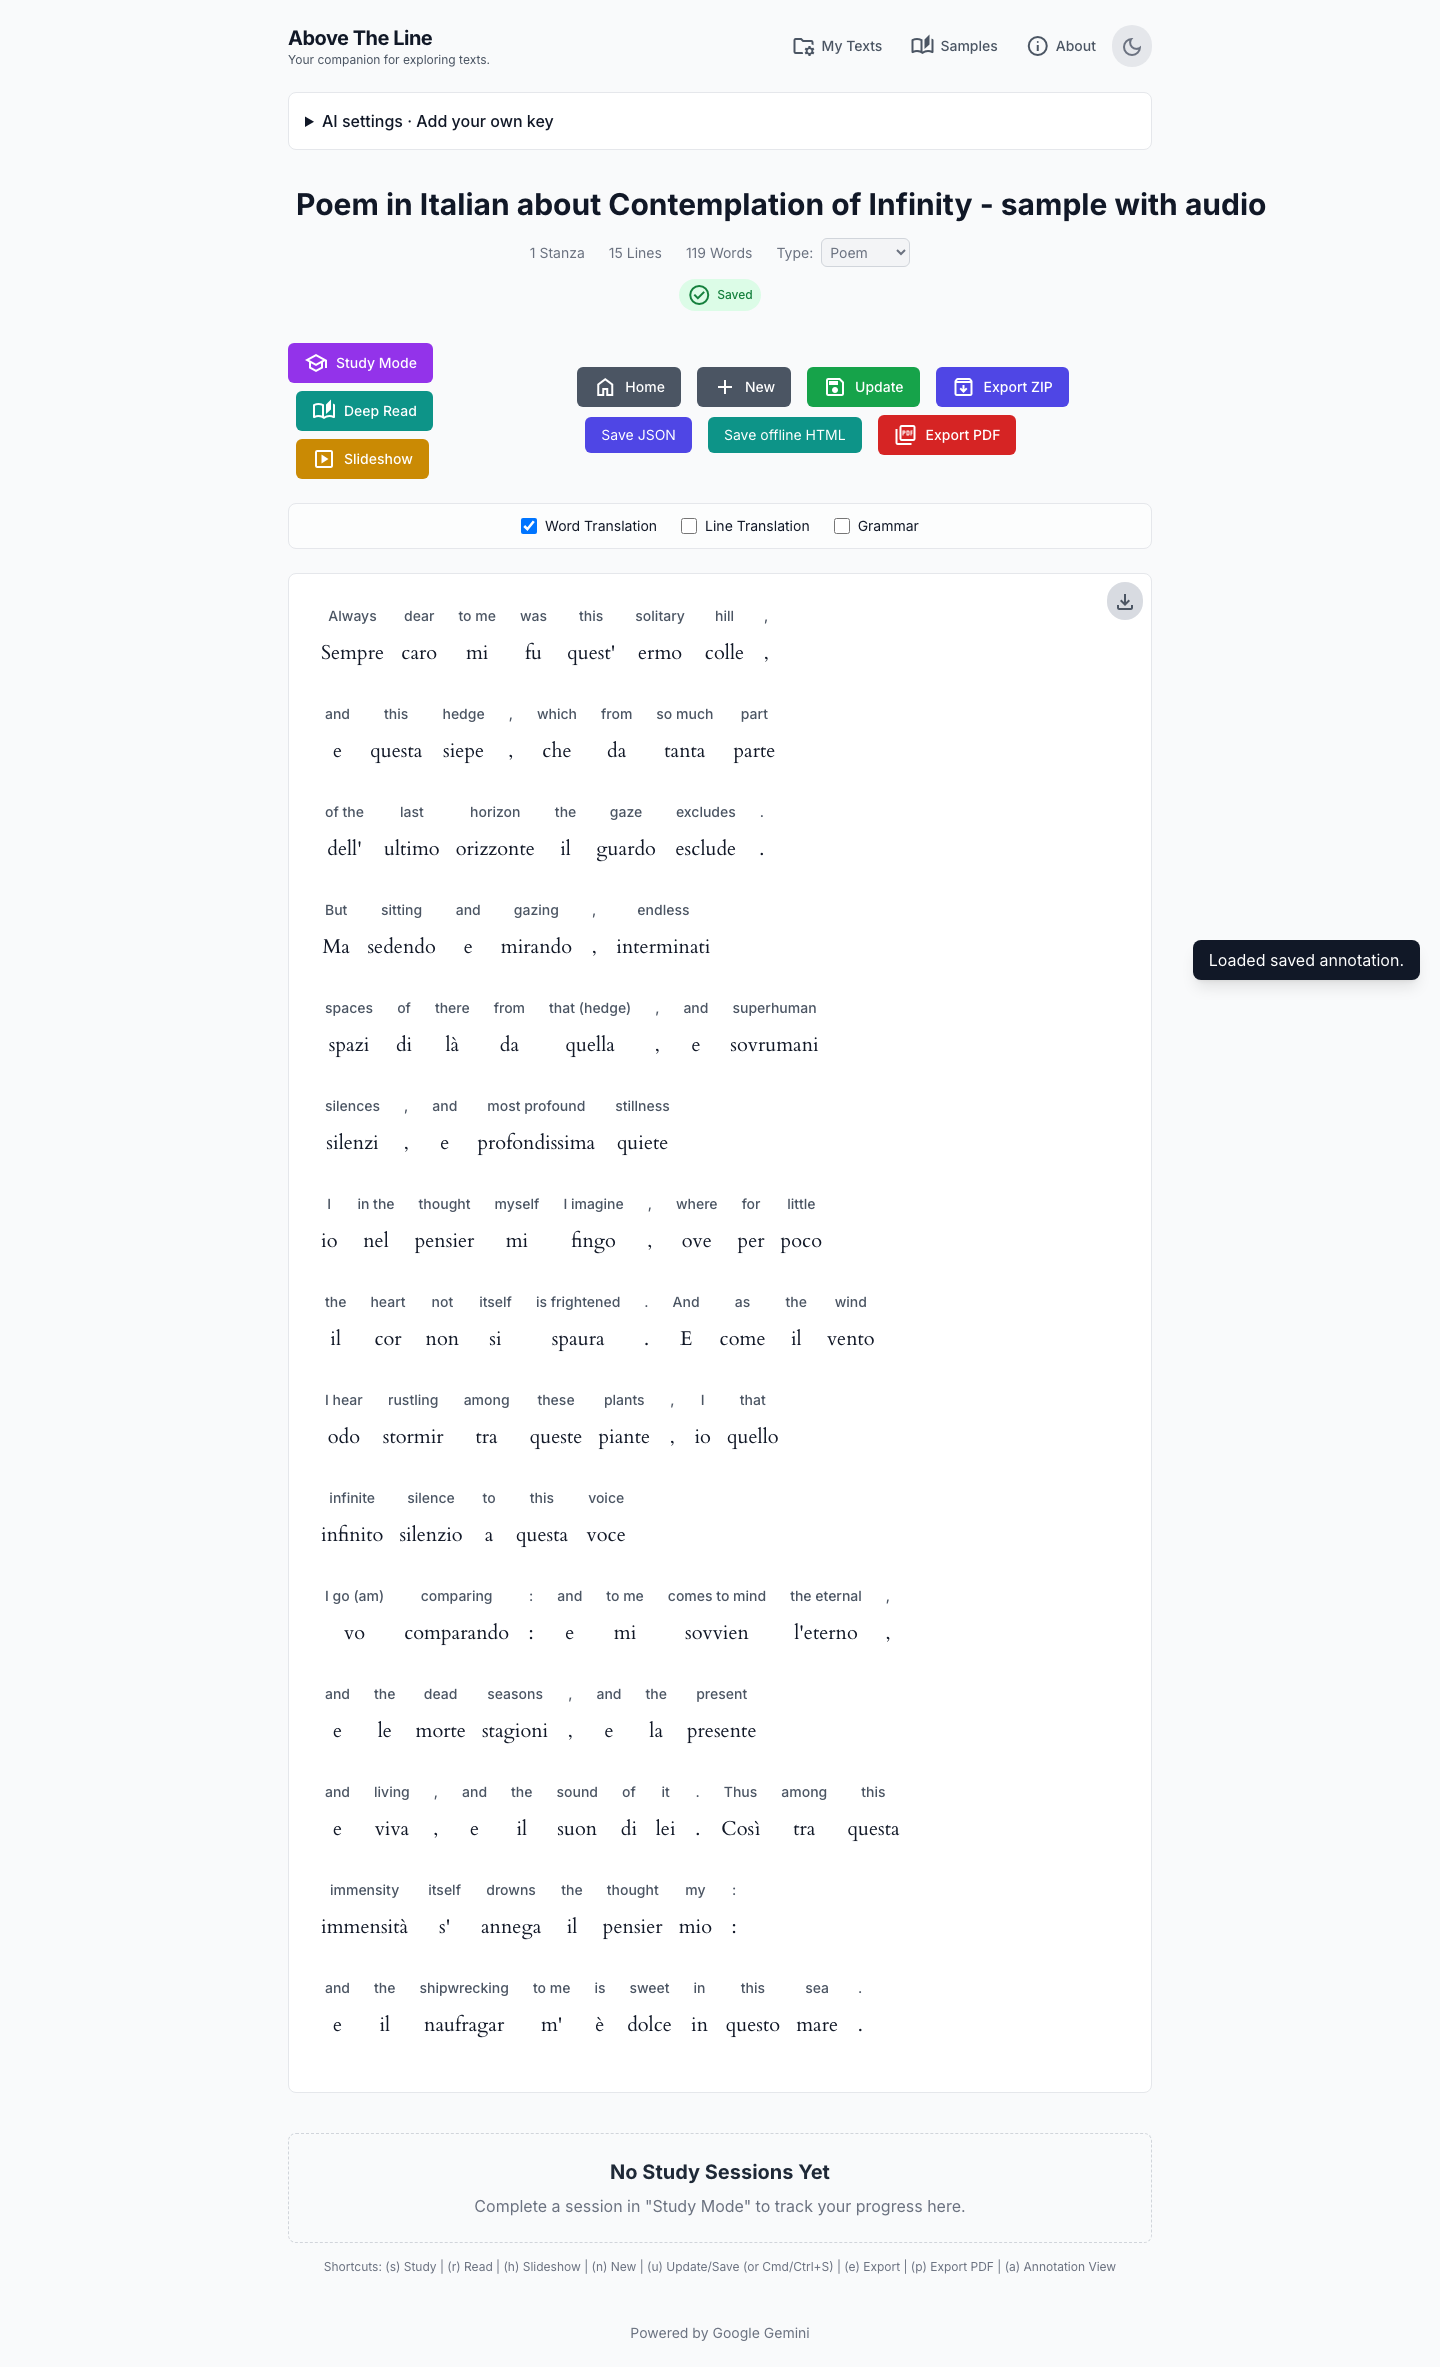
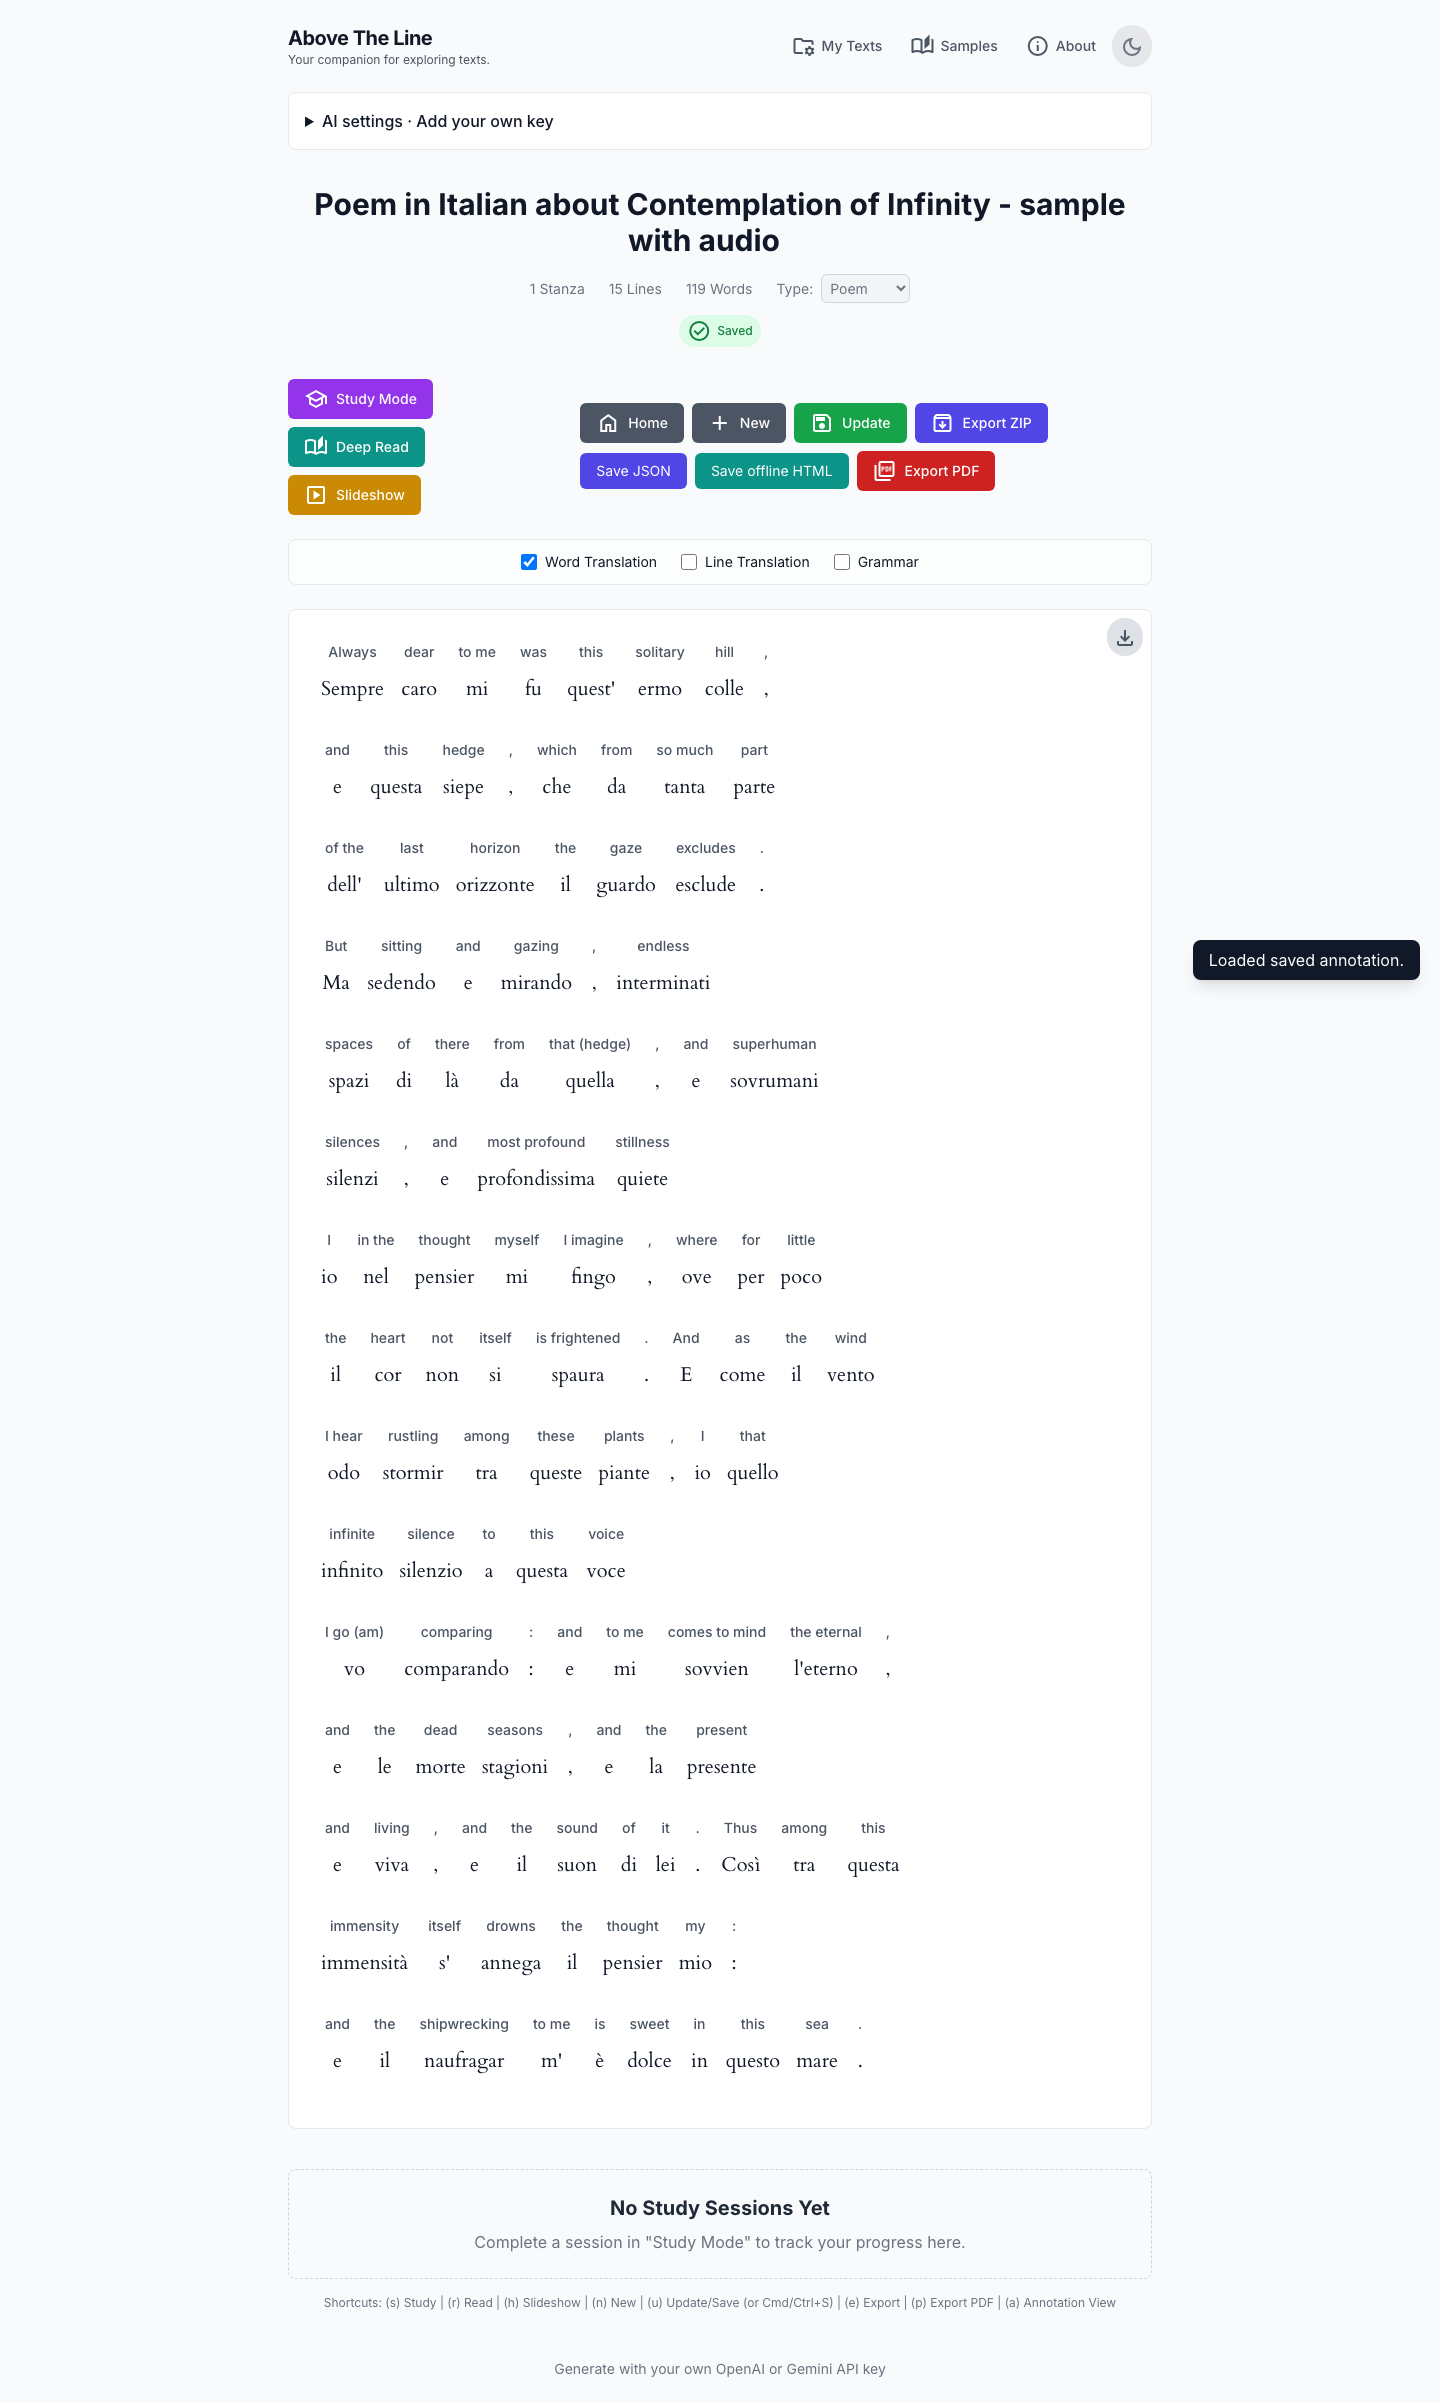
Keep Above the Line titles and controls within phone screens

diff --git a/components/AnnotationOutput.tsx b/components/AnnotationOutput.tsx
@@ -186,7 +186,7 @@ const AnnotationOutput: React.FC<AnnotationOutputProps> = ({ annotation, title, 
   return (
     <div className="mt-8">
       <div className="text-center mb-8">
-        <div className="group relative inline-flex justify-center items-center">
+        <div className="group relative inline-flex max-w-full min-w-0 justify-center items-center">
             {isEditingTitle ? (
               <input
                 ref={titleInputRef}
@@ -200,7 +200,7 @@ const AnnotationOutput: React.FC<AnnotationOutputProps> = ({ annotation, title, 
               />
             ) : (
               <h2
-                className="text-3xl font-bold text-gray-900 dark:text-white truncate py-1 px-2 rounded-md hover:bg-gray-200 dark:hover:bg-gray-700 transition-colors cursor-pointer"
+                className="text-3xl font-bold text-gray-900 dark:text-white break-words whitespace-normal py-1 px-2 rounded-md hover:bg-gray-200 dark:hover:bg-gray-700 transition-colors cursor-pointer"
                 title="Click to edit title"
                 onClick={() => setIsEditingTitle(true)}
               >
@@ -246,9 +246,9 @@ const AnnotationOutput: React.FC<AnnotationOutputProps> = ({ annotation, title, 
         </div>
       </div>
 
-      <div className="flex justify-between items-center gap-4 mb-6">
+      <div className="flex flex-col gap-4 mb-6 lg:flex-row lg:justify-between lg:items-center">
         {/* Left-aligned interaction modes */}
-        <div className="flex items-center space-x-2 flex-wrap gap-2">
+        <div className="flex flex-wrap items-center gap-2">
             <button onClick={onEnterStudyMode} title="Switch to Study Mode (s)" className="px-4 py-2 text-sm font-medium text-white bg-purple-600 rounded-md hover:bg-purple-700 transition flex items-center gap-2">
                 <GraduationCapIcon className="text-base" /> Study Mode
             </button>
@@ -261,7 +261,7 @@ const AnnotationOutput: React.FC<AnnotationOutputProps> = ({ annotation, title, 
         </div>
 
         {/* Right-aligned file actions */}
-        <div className="flex items-center space-x-2 flex-wrap gap-2">
+        <div className="flex flex-wrap items-center gap-2">
             <button onClick={onNavigateHome} title="Go to Home page" className="px-4 py-2 text-sm font-medium text-white bg-gray-600 rounded-md hover:bg-gray-700 transition flex items-center gap-2">
                 <span className="material-symbols-outlined text-base">home</span> Home
             </button>
@@ -283,7 +283,7 @@ const AnnotationOutput: React.FC<AnnotationOutputProps> = ({ annotation, title, 
       </div>
       
       <div>
-        <div className="flex justify-center items-center space-x-6 p-3 mb-6 rounded-lg bg-white/50 dark:bg-gray-800/50 border border-gray-200 dark:border-gray-700">
+        <div className="flex flex-wrap justify-center items-center gap-x-6 gap-y-2 p-3 mb-6 rounded-lg bg-white/50 dark:bg-gray-800/50 border border-gray-200 dark:border-gray-700">
           <label className="flex items-center space-x-2 cursor-pointer text-sm">
             <input
               type="checkbox"

diff --git a/components/Header.tsx b/components/Header.tsx
@@ -20,7 +20,7 @@ const Header: React.FC<HeaderProps> = ({ theme, setTheme, onNavigateHome, onNavi
   const navButtonClasses = "px-3 py-2 text-sm font-medium text-gray-600 dark:text-gray-300 hover:bg-gray-200 dark:hover:bg-gray-700 rounded-md transition flex items-center gap-1.5";
 
   return (
-    <header className="flex justify-between items-center mb-4 md:mb-6">
+    <header className="flex flex-col items-start gap-3 mb-4 md:mb-6 sm:flex-row sm:justify-between sm:items-center">
       <div onClick={onNavigateHome} className="cursor-pointer">
         <h1 className="text-xl font-bold tracking-tight text-gray-900 dark:text-white">
           Above The Line
@@ -30,7 +30,7 @@ const Header: React.FC<HeaderProps> = ({ theme, setTheme, onNavigateHome, onNavi
         </p>
       </div>
       
-      <div className="flex items-center gap-1">
+      <div className="flex flex-wrap items-center gap-1">
         <button onClick={onNavigateToSaved} className={navButtonClasses}>
           <span className="material-symbols-outlined text-lg">folder_managed</span>
           My Texts

diff --git a/App.tsx b/App.tsx
@@ -667,7 +667,7 @@ const App: React.FC = () => {
       )}
 
       <footer className="text-center mt-12 text-sm text-gray-500 dark:text-gray-400">
-        <p>Powered by Google Gemini</p>
+        <p>Generate with your own OpenAI or Gemini API key</p>
       </footer>
 
       {toastMessage && (

diff --git a/docs/checkpoint-above-the-line-cloudflare-release.md b/docs/checkpoint-above-the-line-cloudflare-release.md
@@ -17,3 +17,5 @@ Retain the checked visitor-key app, recordings, portable viewer and original lan
 - ZIP and PDF runtime dependencies are npm modules; browser-native Blob download replaces the external file-saver import. The optional YouTube API loads only when opening a video slideshow. Live YouTube playback and provider/CORS/audio quality remain unverified; no paid calls.
 - Cloudflare project above-the-line created for authorised preview preparation (assigned base host above-the-line-228.pages.dev). No custom domain changed; deployment pending below.
 - Licence is unchanged. Public skill publication waits on the concrete user licence/diff decision; local staging is permitted preparation.
+
+- Screenshot inspection found mobile overflow in the existing header and long annotation title. Header, action groups and annotation toggles now wrap; titles wrap within the page. The export browser test asserts a 390-pixel document stays within its viewport. No controls, data or language logic changed.
